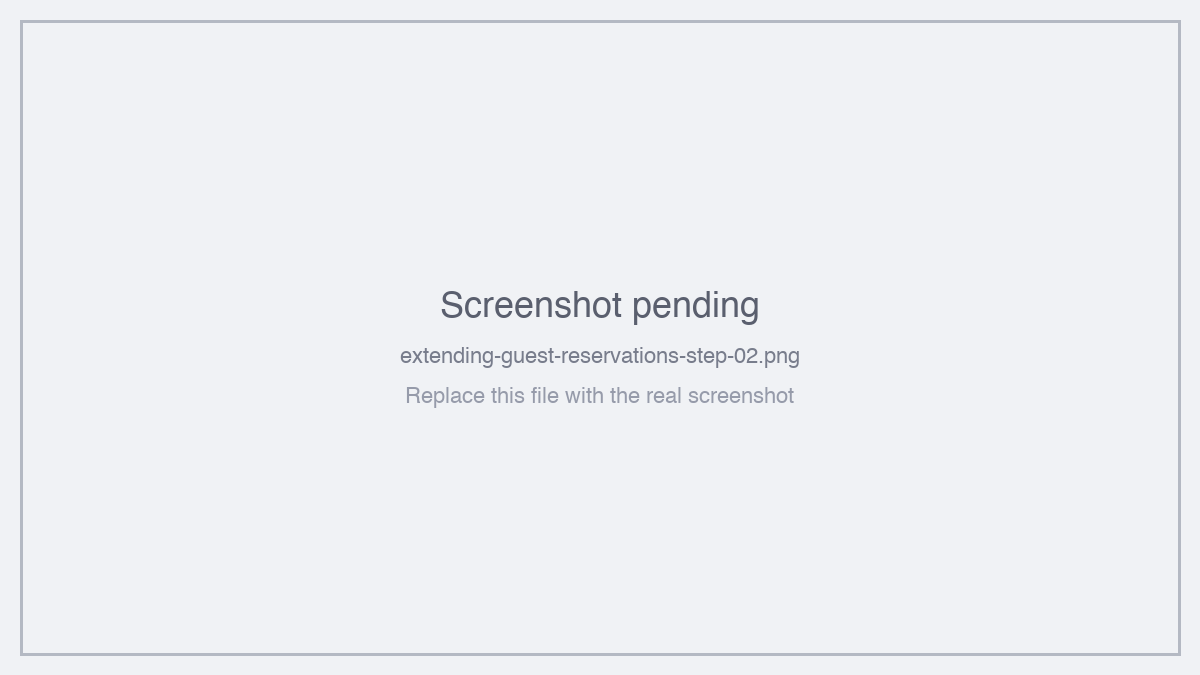
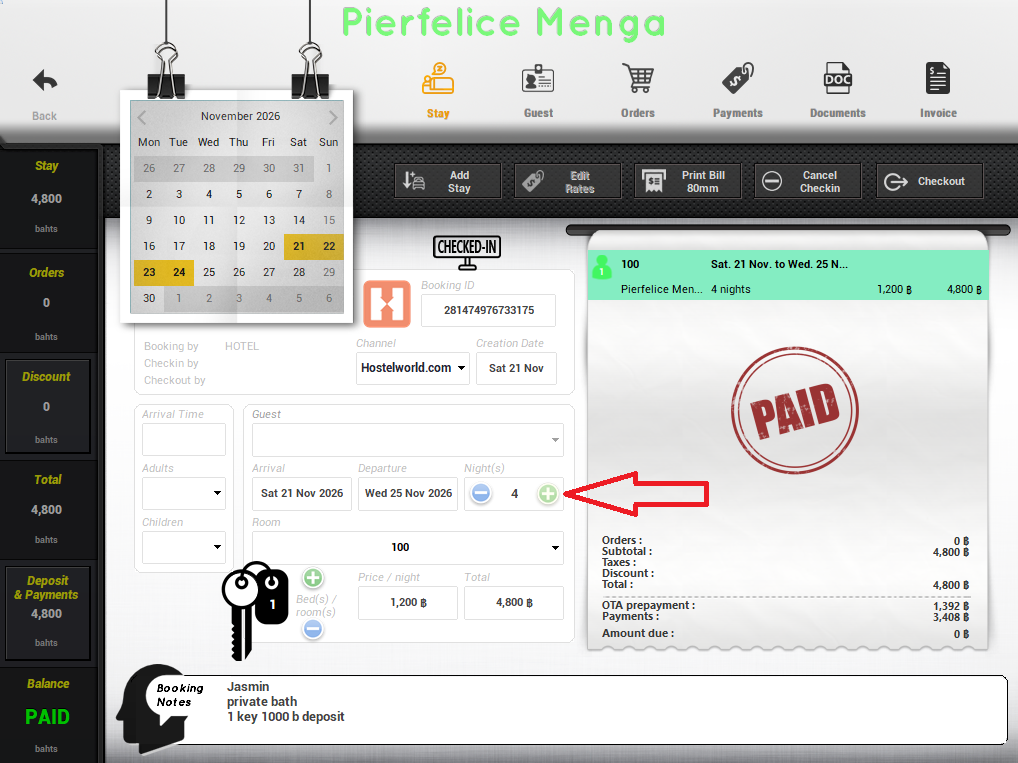
Restructure Daily Check-ins & Check-outs into 3 steps with screenshots

diff --git a/src/content/spinal/index.ts b/src/content/spinal/index.ts
@@ -104,10 +104,9 @@ export const spinalProcedures: Procedure[] = [
     prerequisites: ['Spinal access', "Today's reservation list"],
     introduction: 'PLACEHOLDER: Real steps to be added.',
     steps: [
-      { title: 'Open daily view', description: 'Navigate to the daily check-in/check-out view.', images: [{ src: img('daily-check-ins-check-outs', 1), alt: 'Daily view', caption: 'Screenshot pending' }] },
-      { title: 'Process check-ins', description: 'Mark arriving guests as checked in and assign rooms.', callouts: [{ type: 'important', content: 'Confirm ID and payment before check-in.' }] },
-      { title: 'Process check-outs', description: 'Mark departing guests as checked out and release rooms.' },
-      { title: 'Handle no-shows', description: 'Flag no-shows according to policy.', callouts: [{ type: 'warning', content: 'Follow no-show policy before releasing rooms.' }] },
+      { title: 'Open daily view', description: 'Open the daily check-in/check-out view from the button.', images: [{ src: img('daily-check-ins-check-outs', 1), alt: 'Daily view', caption: 'Screenshot pending' }] },
+      { title: 'Verify check-ins', description: 'Review and verify the arriving guests for the day.', images: [{ src: img('daily-check-ins-check-outs', 2), alt: 'Verify check-ins', caption: 'Screenshot pending' }], callouts: [{ type: 'important', content: 'Confirm ID and payment before check-in.' }] },
+      { title: 'Verify check-outs', description: 'Review and verify the departing guests for the day.', images: [{ src: img('daily-check-ins-check-outs', 3), alt: 'Verify check-outs', caption: 'Screenshot pending' }], callouts: [{ type: 'warning', content: 'Follow no-show policy before releasing rooms.' }] },
     ],
     checklist: [
       { id: 'c1', label: 'All arrivals processed' },
